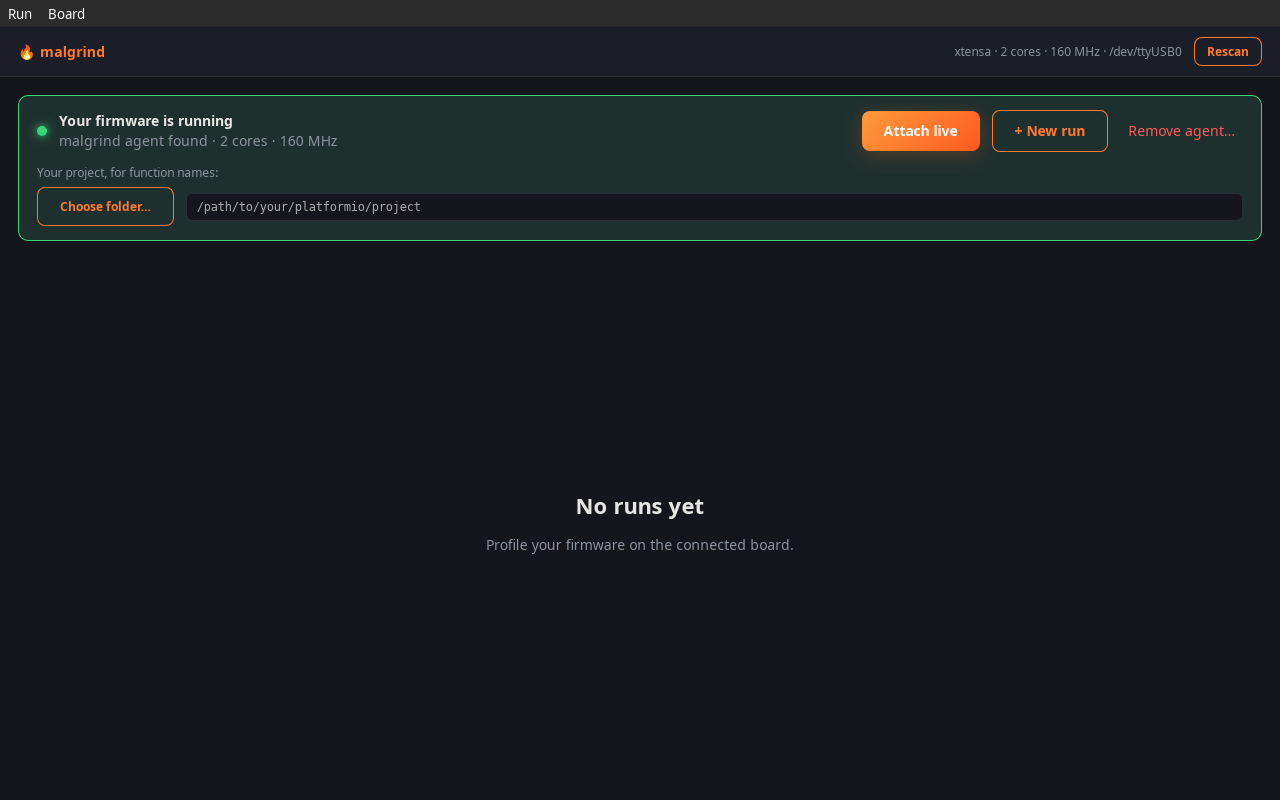
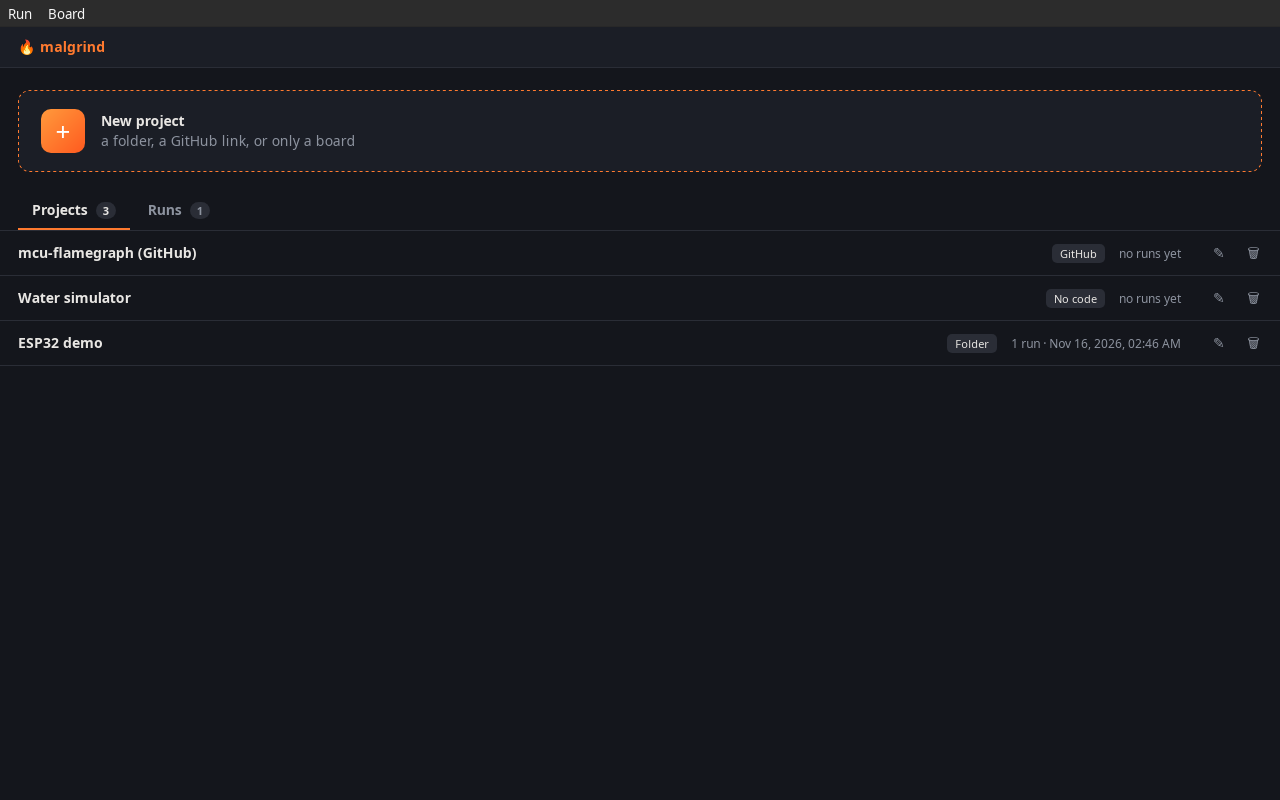
release 0.2.0: README screenshots and verified status

diff --git a/README.md b/README.md
@@ -38,7 +38,7 @@ Download from the repository's **Releases** page:
 
 ## Using the app
 
-![start screen with a running board](docs/app-start.png)
+![start screen: projects and runs](docs/app-start.png)
 
 A **project** is what you profile. Its source code is optional, so a board whose firmware nobody has can still be attached to.
 
@@ -54,6 +54,8 @@ A **project** is what you profile. Its source code is optional, so a board whose
   - **Build & flash**: builds your project with the agent and flashes it, then shows the live flamegraph.
   - **Debug probe**: profile without touching the firmware; greyed, *in development*.
   A card that is not possible says what is missing (for example "this project has no source code").
+
+  ![board tile and method cards](docs/app-profile.png)
 - **Safe flash.** The first time the agent goes onto a board, malgrind reads the board's whole flash into
   `~/.local/share/malgrind/backups/<board MAC>/<time>.bin` (about a minute); if that fails, nothing is flashed.
 - **Remove agent…** (bottom left of a run, or the Board menu) writes that backup back, byte for byte, so the board runs the
@@ -95,8 +97,8 @@ Also `--name`, `--no-open`, `--folded FILE` (folded stacks for `flamegraph.pl` /
 | | |
 |---|---|
 | Linux app (`.deb`), start screen, history, New run, attach, remove agent | done, verified on an ESP32-D0WD-V3 board |
-| Projects (folder, GitHub, no code), board tiles, methods, trust for cloned projects | done, tested with fake git/esptool and on the real simulator port (read-only) |
-| Flash backup before the agent, restore on remove | done in the engine and its tests; see the release notes for what ran on a real board |
+| Projects (folder, GitHub, no code), board tiles, methods, trust for cloned projects | done; the app was driven on a real USB port and a real GitHub clone worked; drag and drop not exercised |
+| Flash backup before the agent, restore on remove | done, verified on the ESP32-D0WD-V3 dev board: backup, agent flash and live data, restore, `esptool verify_flash` matched |
 | Profiling without flashing (JTAG/SWD probe through OpenOCD): Cortex-M first, then ESP32 | planned, see the design (section 5a) |
 | Flamegraph and function table, live and replayed, time scrubber | done |
 | `malgrind-cli run / attach / detect` | done |
